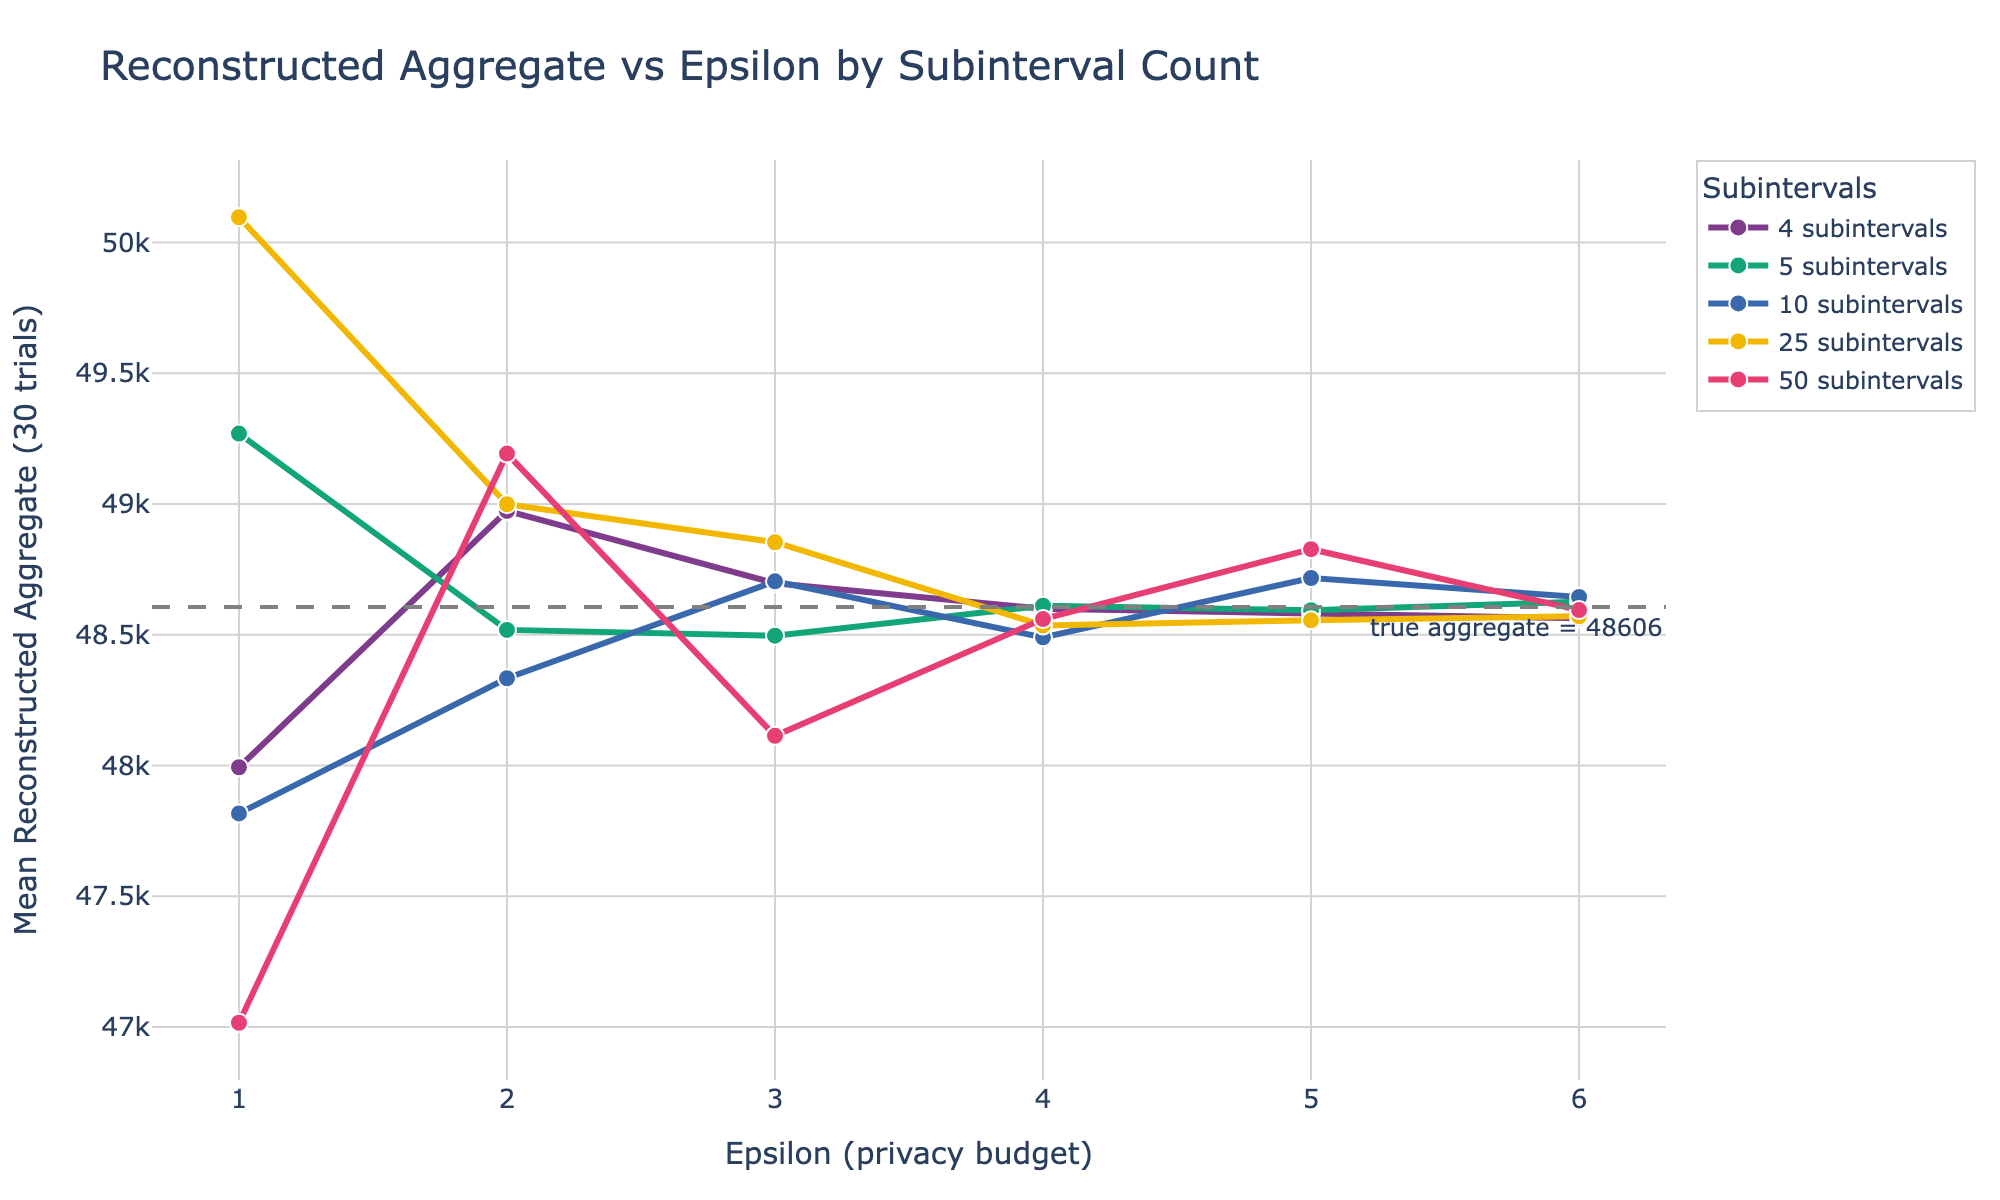
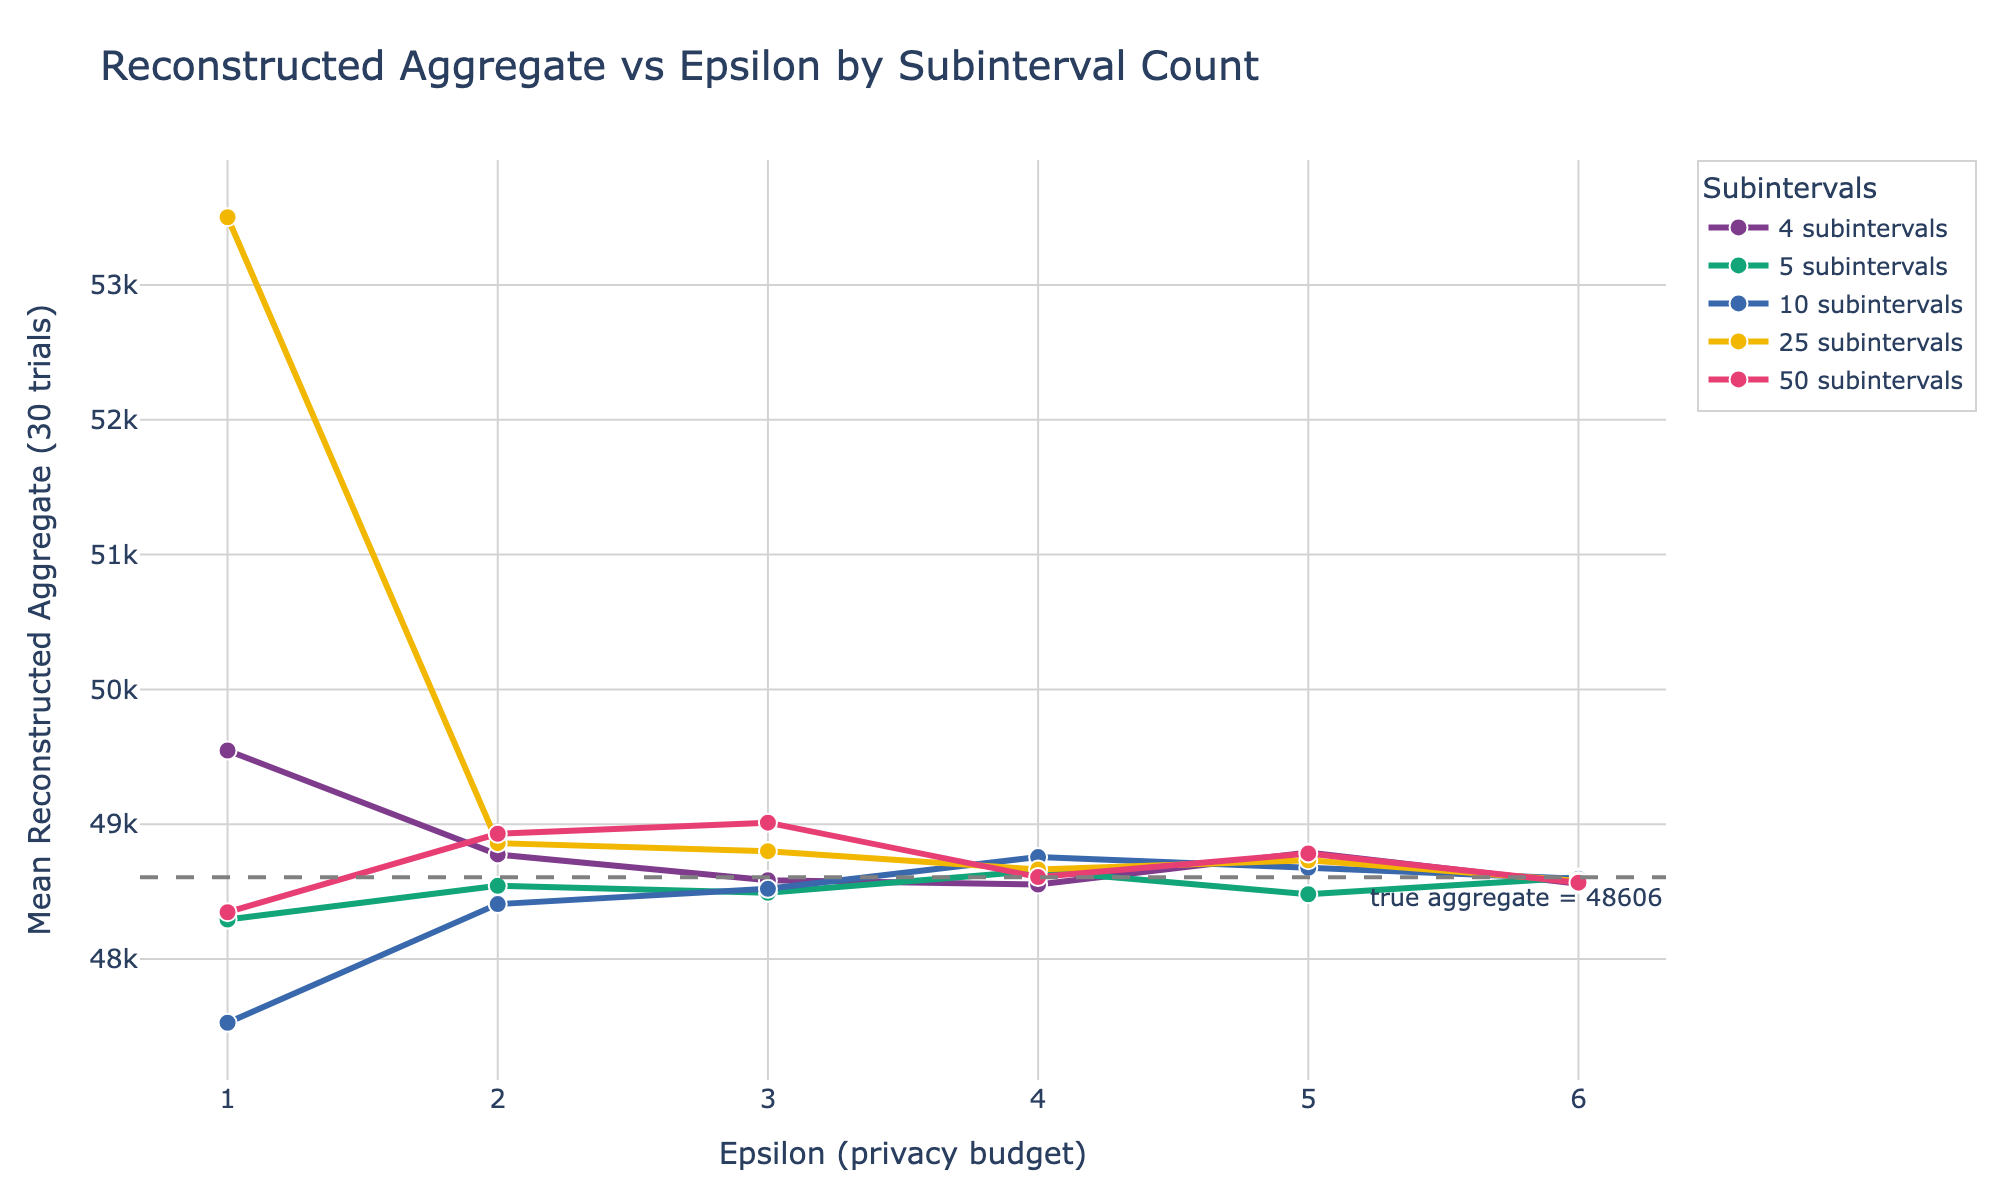
t

diff --git a/src/mechanisms/gai.py b/src/mechanisms/gai.py
@@ -60,12 +60,13 @@ def return_bounds(column, boundaries, interval_size):
     return lower, upper
 
 
-def gai_discretise(readings, upper, lower, n):
-    # choose upper with prob (x - lower) / (upper - lower), else lower.
+def gai_discretise(readings, upper, lower):
     span = (upper - lower).astype(float)
     with np.errstate(divide="ignore", invalid="ignore"):
         v_prob = np.where(span > 0, (readings - lower) / span, 0.0)
-    discretised = np.where(np.random.random(n) < v_prob, upper, lower)
+    discretised = np.where(
+        np.random.random(readings.shape) < v_prob, upper, lower
+    )
     return discretised
 
 
@@ -104,7 +105,7 @@ def gai_mechanism(
     lower, upper = return_bounds(readings, boundaries, n_int)
 
     # ---- gai_discretise ------------------------------------------------------
-    discretised = gai_discretise(readings, upper, lower, n)
+    discretised = gai_discretise(readings, upper, lower)
 
     # ---- gai_perturb ---------------------------------------------------------
     perturbed = gai_perturb(epsilon, n, n_int, boundaries, discretised)

diff --git a/analysis/aggregate.py b/analysis/aggregate.py
@@ -9,7 +9,13 @@ import pyarrow.compute as pc
 import pyarrow.parquet as pq
 
 from src.data.load_data import make_run_dir
-from src.mechanisms.gai import build_boundary_list, gai_aggregate
+from src.mechanisms.gai import (
+    build_boundary_list,
+    gai_aggregate,
+    gai_discretise,
+    return_bounds,
+    true_aggregate,
+)
 from src.mechanisms.ldp_energy import ldp_aggregate
 from src.utils.config import (
     MECHANISMS,
@@ -74,7 +80,12 @@ def raw_aggregate(home_ids, day, directory, col_name):
         [joined.column(c).to_numpy(zero_copy_only=False) for c in home_cols]
     )
     values = np.nan_to_num(values, nan=0.0)
-    return np.sum(values, axis=1)
+    lower, upper = return_bounds(values, boundary_list, boundary_list.size)
+    values = gai_discretise(values, upper, lower)
+    counts, _, _, _ = true_aggregate(
+        values, epsilon, boundary_list.size, boundary_list
+    )
+    return counts
 
 
 def aggregation_counts(home_ids, day, directory):
